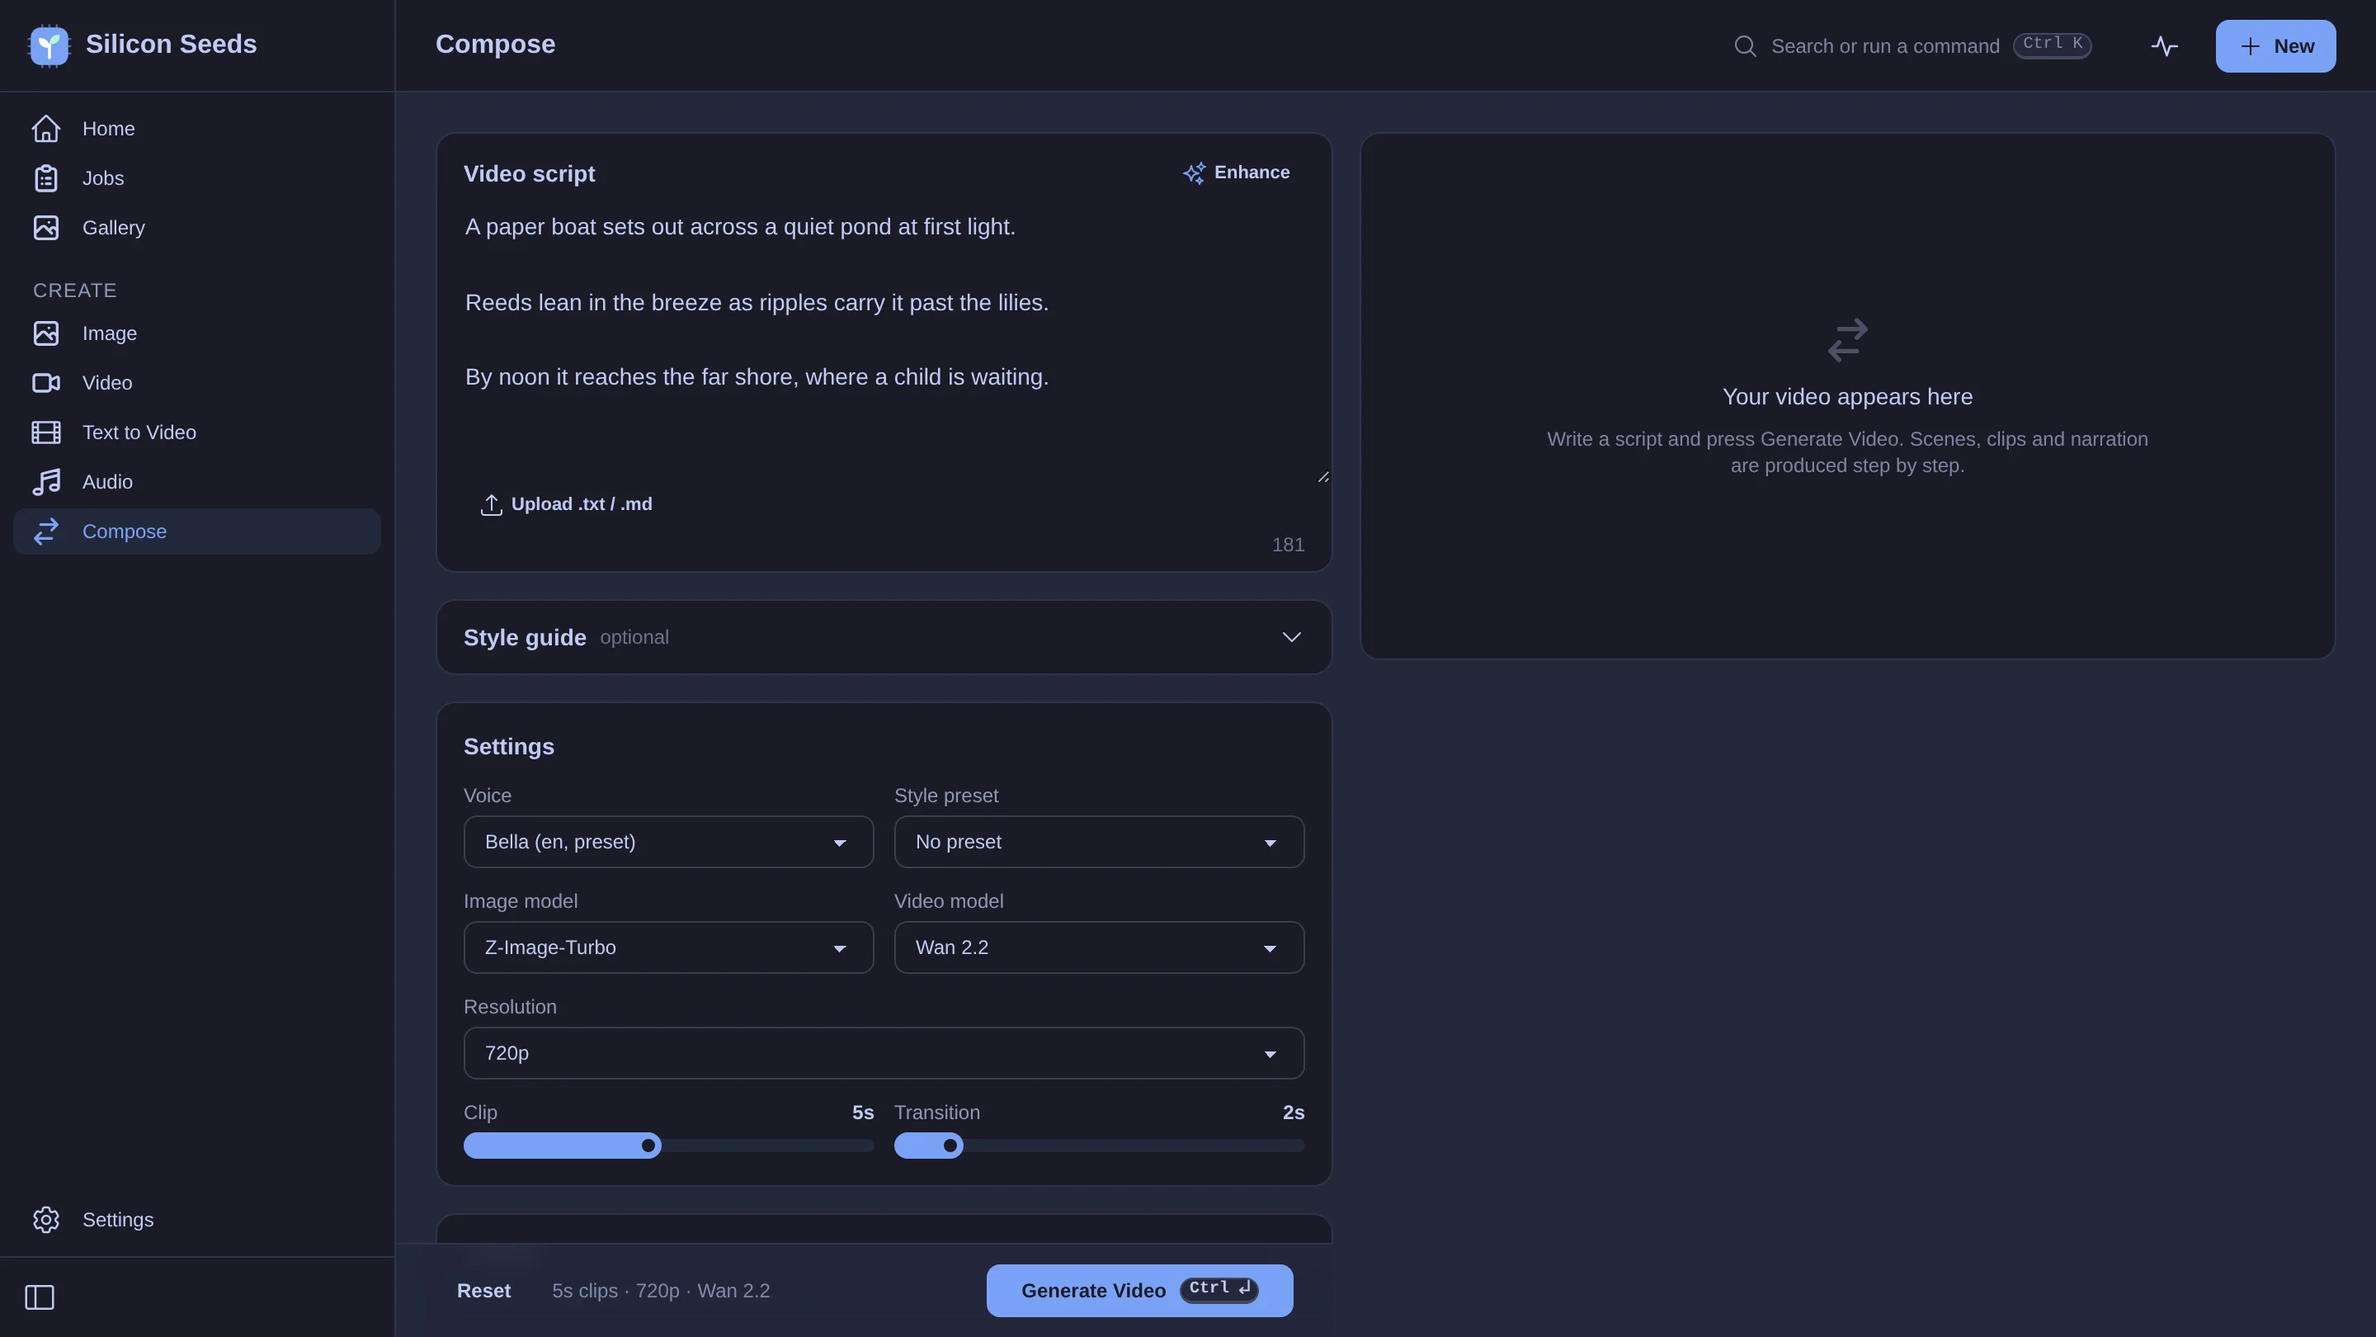
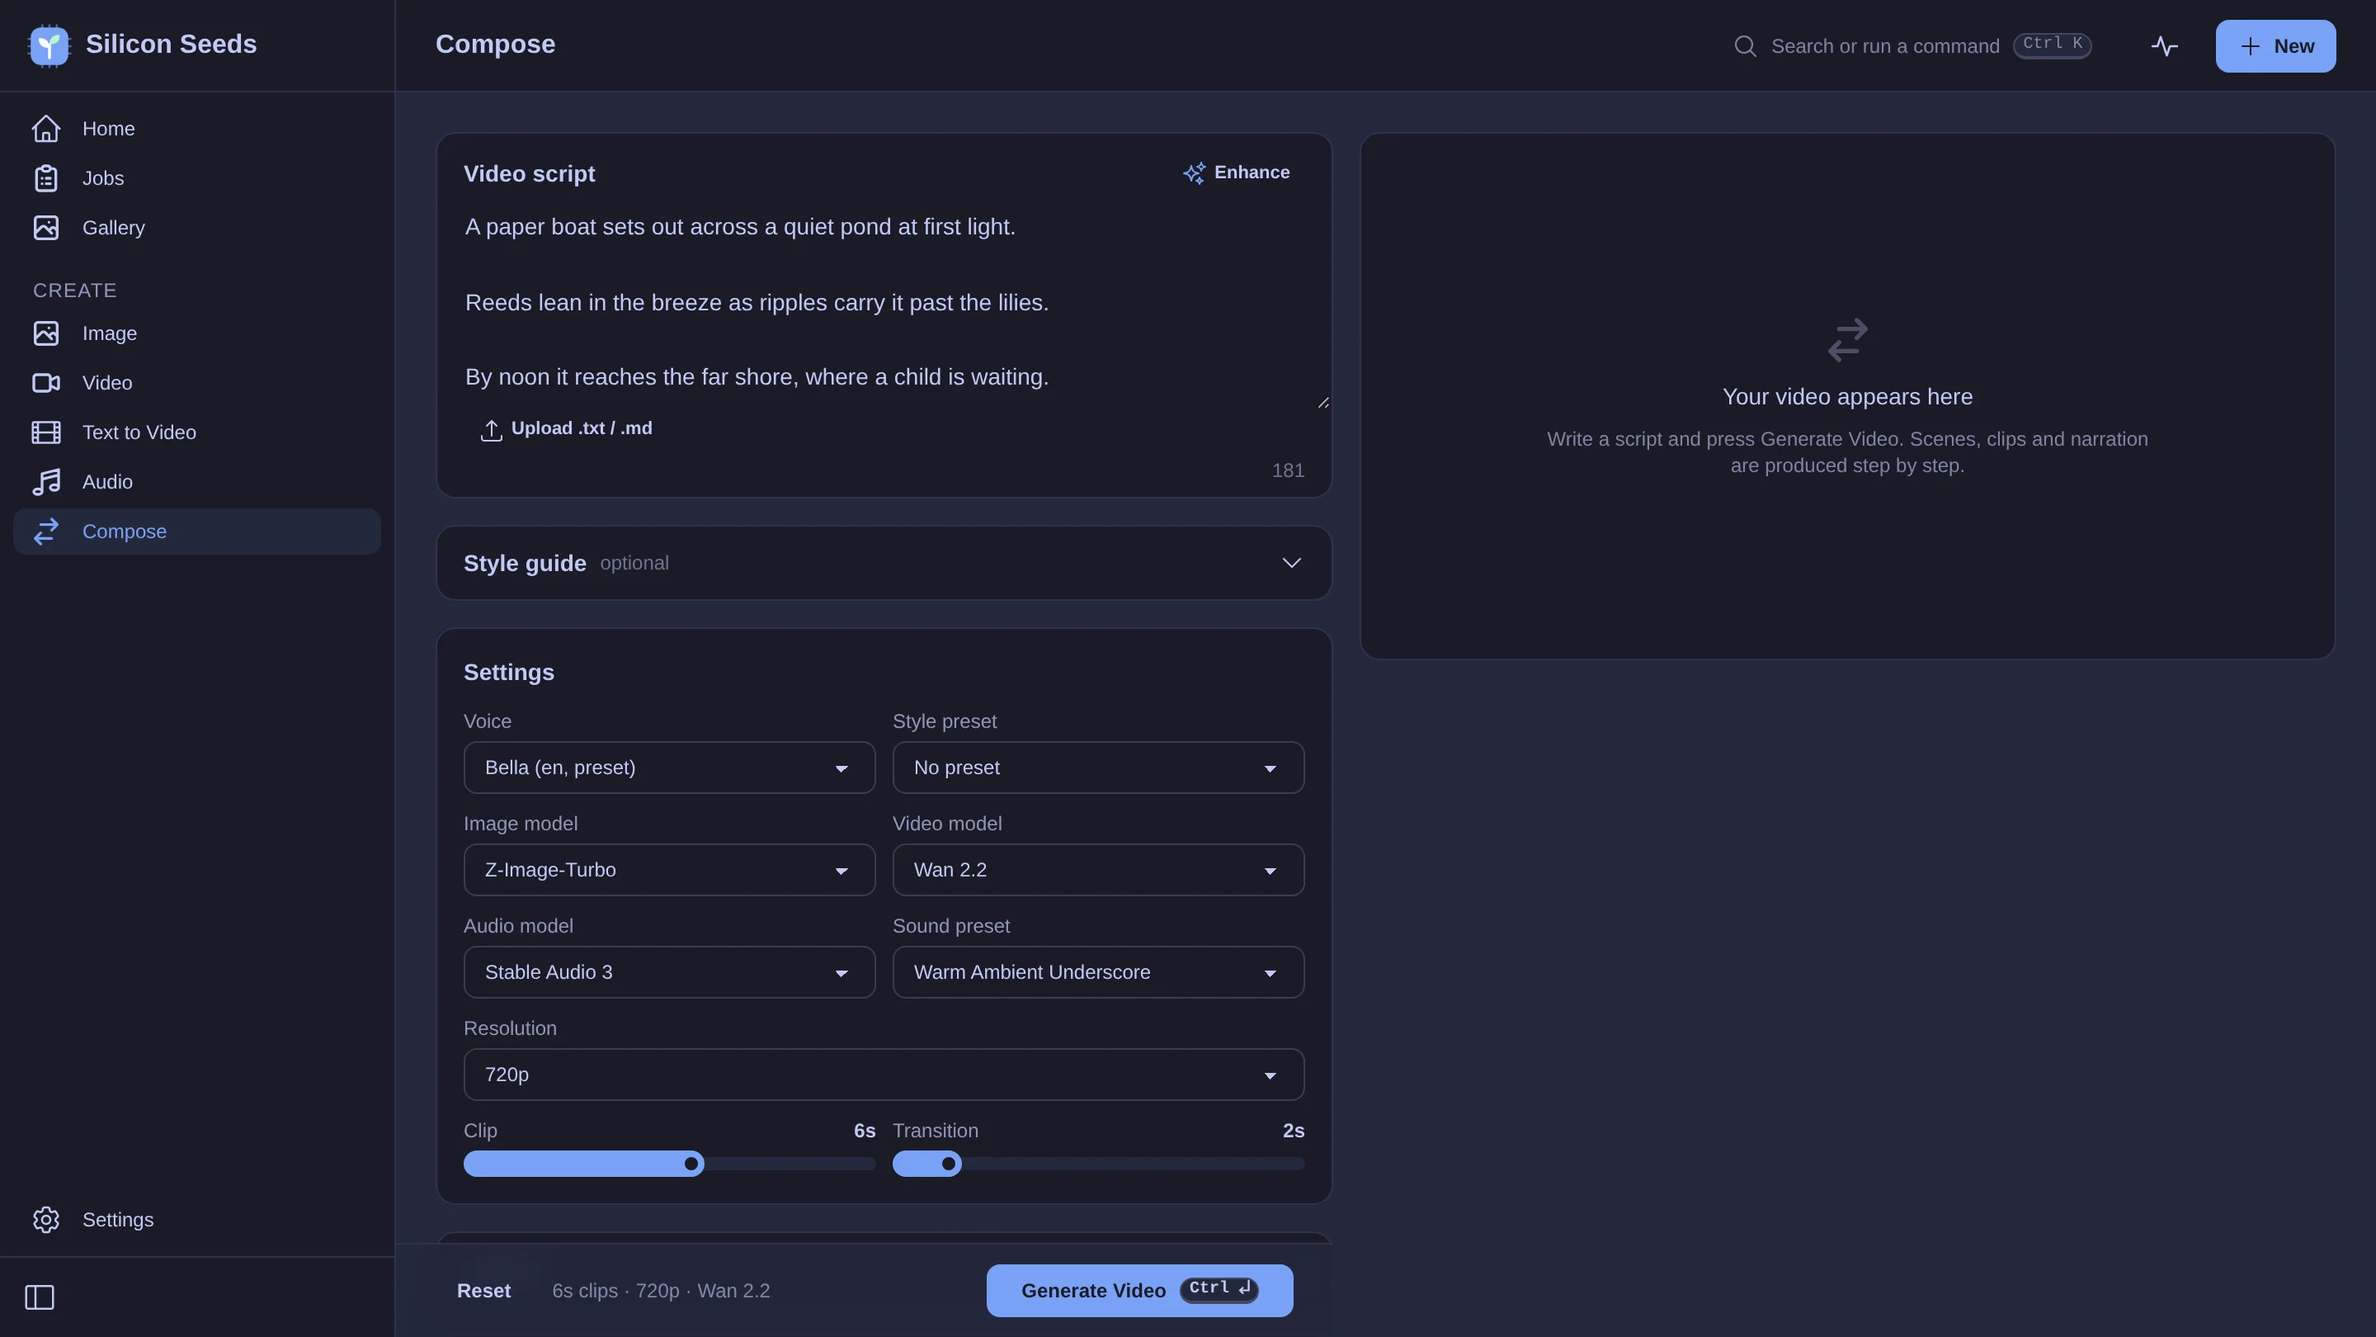
docs(readme): document multi-model audio studio, sound presets, and refresh screenshots (#88)

diff --git a/README.md b/README.md
@@ -16,7 +16,7 @@
   <img src="https://img.shields.io/badge/SolidJS-1.x-2C4F7C?style=flat-square&logo=solid&logoColor=white" alt="SolidJS" />
   <img src="https://img.shields.io/badge/DaisyUI-5.x-1AD1A5?style=flat-square" alt="DaisyUI" />
   <img src="https://img.shields.io/badge/Kysely%20%2B%20SQLite-003B57?style=flat-square&logo=sqlite&logoColor=white" alt="Kysely + SQLite" />
-  <img src="https://img.shields.io/badge/ComfyUI-Z--Image--Turbo%20%7C%20Wan%202.2%20%7C%20LTX%202.3-111111?style=flat-square" alt="ComfyUI" />
+  <img src="https://img.shields.io/badge/ComfyUI-Z--Image--Turbo%20%7C%20Wan%202.2%20%7C%20LTX%202.3%20%7C%20ACE%20Step%20%7C%20YuE2%20%7C%20MiniMax%20%7C%20SA3-111111?style=flat-square" alt="ComfyUI" />
   <img src="https://img.shields.io/badge/LM%20Studio-Qwen%203-6A5ACD?style=flat-square" alt="LM Studio" />
   <img src="https://img.shields.io/badge/version-1.0.0-blue?style=flat-square" alt="version 1.0.0" />
 </p>
@@ -35,7 +35,7 @@
 
 > **License:** GPL-3.0-or-later - see [LICENSE](LICENSE). Any derivative or service that includes this code must remain open under the same license.
 
-Local generative media studio. Orchestrates **LM Studio** (text), **ComfyUI** (image / video / audio), **SQLite + Kysely** (jobs), and a **SolidJS + DaisyUI** frontend to turn prompts and scripts into images, videos, audio tracks, and composed films. Queue is DB-backed, UI is SSE-driven, everything runs on your hardware.
+Local generative media studio. Orchestrates **LM Studio** (text), **ComfyUI** (image / video / multi-model audio), **SQLite + Kysely** (jobs & presets), and a **SolidJS + DaisyUI** frontend to turn prompts, scripts, and reference audio into images, videos, songs, melody covers, sound effects, and composed films. Queue is DB-backed, UI is SSE-driven, everything runs on your hardware.
 
 ---
 
@@ -56,18 +56,38 @@ One prompt box. Auto mode picks the format and settings from your description; r
 <tr>
 <td width="50%">
 
-**Compose - script to film**
+**Audio Studio - 4 models, sound presets, melody cover**
 
-Script + style guide + voice + LoRAs -> speech -> scenes -> images -> videos -> transitions -> concat. Shared studio layout with local drafts and an inline result panel.
+Switch between ACE Step 1.5 XL, YuE2 3B (ABC Score planning + SheetSage2 Melody Cover from Reference Audio), MiniMax Music 3 (3-part studio captions), and Stable Audio 3 (instrumentals, loops, SFX + Qwen Reprompting).
 
-<img src="readme/compose.webp" alt="Compose view - script, style guide, models, LoRAs, voice" width="100%" />
+<img src="readme/create-audio.webp" alt="Create Audio view - multi-model audio studio, YuE2 ABC planning, Melody Cover upload, sound presets" width="100%" />
+
+</td>
+<td width="50%">
+
+**Compose - script to film with selectable underscore**
+
+Script + style guide + voice + LoRAs + configurable Audio Model & Sound Preset -> speech -> scenes -> images -> videos -> transitions -> instrumental underscore -> concat.
+
+<img src="readme/compose.webp" alt="Compose view - script, style guide, image/video/audio models, sound presets, LoRAs, voice" width="100%" />
+
+</td>
+</tr>
+<tr>
+<td width="50%">
+
+**Sound & Style Presets - curated built-ins and custom CRUD**
+
+16 built-in sound & genre presets across all 4 audio models (duplicable into custom presets) alongside visual style presets in `/settings?tab=presets`.
+
+<img src="readme/sound-presets.webp" alt="Settings Sound Presets view - 16 built-in sound and genre presets with model filters and custom CRUD" width="100%" />
 
 </td>
 <td width="50%">
 
 **Settings - appearance, defaults, LoRAs, presets**
 
-Tabs for Appearance (themes), Defaults (prefill new jobs), LoRAs (synced from ComfyUI, reorder, toggle active), and Style presets.
+Tabs for Appearance (themes), Defaults (prefill new jobs including default studio and compose audio models), LoRAs (synced from ComfyUI, reorder, toggle active), and Style & Sound presets.
 
 <img src="readme/settings.webp" alt="Settings view - appearance themes, defaults, LoRAs, style presets" width="100%" />
 
@@ -85,9 +105,9 @@ Job list and detail view at `/jobs/<id>` with status filters, search, Status / M
 </td>
 <td width="50%">
 
-**Create - shared studio and Home Auto mode**
+**Create Studio - shared layout and AI prompt enhance**
 
-Home quick create with Auto mode plus dedicated Image, Video, Text-to-Video, Audio, and Compose pages with local drafts and live result panels.
+Shared studio layout across Image, Video, Text-to-Video, Audio, and Compose with AI prompt Enhance (and Undo chain), style presets, LoRA stacking, local drafts, and live result panels.
 
 <img src="readme/create-image.webp" alt="Create Image view - prompt, style, LoRAs" width="100%" />
 
@@ -117,7 +137,7 @@ git clone https://github.com/DennisLoska/silicon-seeds.git
 cd silicon-seeds
 bun install
 cp .env.example .env   # edit paths above
-bun run db:migrate      # creates silicon-seeds.sqlite + style presets/loras tables
+bun run db:migrate      # creates data/silicon-seeds.sqlite + style_presets, sound_presets, loras tables
 ```
 
 Validate setup:
@@ -155,6 +175,7 @@ Useful commands:
 bun run test           # tsc (server + client) + eslint (no services needed)
 bun run test:unit      # bun test src (no services needed)
 bun run lint
+bun run format:check   # prettier --check .
 bun run db:rollback    # last migration
 bun run db:chroma      # start local Chroma (path from CONTENT_LIBRARY_DIR, port from CHROMADB_PORT)
 ```
@@ -180,12 +201,15 @@ Variants: `bun run test:e2e:headed`, `bun run test:e2e:ui`.
 | Area | What you get |
 |------|--------------|
 | **Home & Auto mode** | Quick create bar with Auto, Image, Video, Text-to-Video, and Audio modes, active job cards, and recent creations. In Auto mode (`POST /api/intent`), the planner picks the format and rewrites the prompt while deterministic rules decide kind, counts, sizes, and durations. |
+| **Multi-Model Audio Studio** | Four ComfyUI audio backbones in `/create/audio` with dynamic model controls and graph-pruning workflow builders: **ACE Step 1.5 XL** (fast vocal/instrumental tracks with BPM, Key/Scale, Time Signature), **YuE2 3B** (symbolic ABC Score chord planning + **SheetSage2 Melody Cover** from uploaded Reference Audio or built-in sample), **MiniMax Music 3** (studio vocal flagship with 3-part `Global Metadata` / `Vocal Details` / `Arrangement` scaffold, `int8`/`fp16`, tiled VAE decode), and **Stable Audio 3** (8-step `medium` & 50-step `medium_base` instrumentals, loops, SFX, one-shots up to 180s with optional Qwen3.5-2B **Reprompting**). |
+| **Sound & Style Presets** | 16 curated built-in **Sound Presets** tailored to each audio model's prompt and lyric format, plus custom Sound Preset CRUD (`/api/sound-presets`) alongside **Style Presets** (`/api/style-presets`) in `/settings?tab=presets`. |
+| **Compose & Underscore** | End-to-end narrated film pipeline (`/compose`): script or `.txt`/`.md` + style guide + Voicebox TTS + Z-Image-Turbo + Wan 2.2 / LTX 2.3 + configurable **Underscore** audio model and sound preset. |
+| **Create Studio & AI Enhance** | Shared `StudioLayout` across Image (`/create/image`), Video (`/create/video`), Text-to-Video (`/create/text-to-video`), Audio (`/create/audio`), and Compose (`/compose`) with local per-route drafts, preset-aware AI prompt Enhance (with Undo chain) and Inspire, LoRA stacking, and a live `ResultPanel`. |
 | **Activity & Toasts** | Topbar Activity panel listing running, queued, and recent jobs with pause/resume/cancel actions, plus completion and failure toasts with direct links to `/jobs/<id>`. |
 | **Command Palette** | `Ctrl K` (or `Cmd K`) opens a keyboard-navigable palette for routes, settings sections, recent jobs, themes, and quick create for typed prompts. |
-| **Create Studio** | Shared `StudioLayout` across Image (`/create/image`), Video (`/create/video`), Text-to-Video (`/create/text-to-video`), Audio (`/create/audio`), and Compose (`/compose`) with local per-route drafts, prompt Enhance (with Undo chain) and Inspire, style presets, LoRA stacking, and a live `ResultPanel`. |
-| **Jobs** | Master-detail view (`/jobs` and `/jobs/:id?tab=status\|media\|events`) with status filter chips, search, step timeline, media grid with lightbox, "Reuse settings" prefill, per-event regenerate, and job pause, resume, retry, cancel, and delete actions. |
+| **Jobs** | Master-detail view (`/jobs` and `/jobs/:id?tab=status\|media\|events`) with status filter chips, search, step timeline, media grid with lightbox, "Reuse settings" prefill (preserving per-model audio defaults), per-event regenerate, and job pause, resume, retry, cancel, and delete actions. |
 | **Gallery** | Content library backed by `CONTENT_LIBRARY_DIR` with type filters (`all`, `image`, `video`, `audio`), cursor pagination, server-rendered thumbnails (`/thumbs/*`), and a lightbox with job links. |
-| **Settings** | Tabbed interface (`/settings?tab=appearance\|defaults\|loras\|presets`) covering Appearance (Daylight, Tokyo Night, Dracula, and OpenCode themes), Defaults (resolution, models, FPS, durations, preset), LoRAs (sync from ComfyUI, toggle active, reorder, delete), and Style presets. |
+| **Settings** | Tabbed interface (`/settings?tab=appearance\|defaults\|loras\|presets`) covering Appearance (System, Daylight, Tokyo Night, OpenCode, and Dracula themes), Defaults (resolution, image/video/audio/compose models, FPS, durations, presets), LoRAs (sync from ComfyUI, toggle active, reorder, delete), and Visual Style + Sound & Genre presets. |
 | **Shell & Favicon** | Collapsible sidebar, responsive mobile drawer, `New` create menu, and SVG favicon (`src/client/favicon.svg`). |
 | **Local-first** | No cloud or external API keys. Bring your own ComfyUI and LM Studio; optional Voicebox and ChromaDB degrade gracefully. |
 
@@ -196,10 +220,10 @@ Variants: `bun run test:e2e:headed`, `bun run test:e2e:ui`.
 ```mermaid
 flowchart LR
   UI[SolidJS + DaisyUI<br/>Home / Create / Jobs / Gallery / Settings] -- SSE / REST --> API[Hono API<br/>:3000]
-  API -- Kysely --> DB[(SQLite<br/>jobs + events + style_presets)]
+  API -- Kysely --> DB[(SQLite<br/>jobs + events + style_presets + sound_presets)]
   API -- queue --> Q[QueueManager<br/>prio 300/200/100<br/>single-slot]
-  Q --> LLM[LM Studio<br/>scene expansion + intent]
-  Q --> COMFY[ComfyUI<br/>Z-Image-Turbo<br/>Wan 2.2 / LTX 2.3<br/>Stable Audio]
+  Q --> LLM[LM Studio<br/>scene expansion + intent + enhance]
+  Q --> COMFY[ComfyUI<br/>Z-Image-Turbo<br/>Wan 2.2 / LTX 2.3<br/>ACE Step 1.5 / YuE2 / MiniMax Music 3 / Stable Audio 3]
   Q --> TTS[Voicebox<br/>TTS / cloning]
   COMFY --> OUT[(OUTPUT_DIR)]
   TTS --> OUT
@@ -208,6 +232,8 @@ flowchart LR
 ```
 
 **Request flow:** `Create -> POST /api/jobs/*` -> DB `jobs` + `events` rows -> `QueueManager.pump()` picks next event by priority -> driver (LLM / ComfyUI / TTS) executes -> writes artifact to `OUTPUT_DIR` -> copies to `CONTENT_LIBRARY_DIR` -> SSE pushes update -> UI re-renders. ComfyUI progress arrives via WebSocket (`COMFYUI_BASE_WS`).
+
+**Multi-model audio & graph pruning:** `src/shared/audio-models.ts` defines the isomorphic registry for `ace-step-1.5`, `yue2`, `minimax-music-3`, and `stable-audio-3` (capabilities, duration bounds, lyric formatting, and default settings). `src/comfyui/audio-workflows.ts` constructs fresh, pruned ComfyUI API graphs per job so inactive auxiliary subgraphs (such as `SheetSage2AudioToABC`, `YuE2GenerateABC`, or `Qwen3.5-2B` reprompting) are omitted rather than loaded into VRAM. Uploaded Reference Audio for YuE2 Melody Covers is validated and staged into ComfyUI's `INPUT_DIR` via `src/audio/reference-audio.ts`.
 
 **Client data layer:** A single SSE connection (`/jobs/stream/all`) with server heartbeats feeds the client job store (`src/client/stores/jobs.ts`). The store holds the job list, tracks per-job signatures and stream epochs, runs a staleness watchdog with exponential-backoff reconnect and a 10-second polling fallback while jobs are active, and drives the Activity panel and completion/failure toasts. Per-job views (`JobDetail`, `ResultPanel`) subscribe to the store via `onJobUpdate` and refetch only when their job's signature or the stream epoch changes.
 
@@ -230,8 +256,8 @@ flowchart LR
 
 | Service | Default URL | Required | What it does |
 |---------|-------------|----------|--------------|
-| [ComfyUI](https://github.com/comfyanonymous/ComfyUI) | `http://127.0.0.1:8188` | yes | Image (Z-Image-Turbo), video (Wan 2.2 / LTX 2.3), audio generation |
-| [LM Studio](https://lmstudio.ai/) | `http://127.0.0.1:1234` | yes | LLM text, scene prompts, style expansion, intent planning, job naming |
+| [ComfyUI](https://github.com/comfyanonymous/ComfyUI) | `http://127.0.0.1:8188` | yes | Image (Z-Image-Turbo), video (Wan 2.2 / LTX 2.3), audio (ACE Step 1.5 XL, YuE2 3B + SheetSage2, MiniMax Music 3, Stable Audio 3) |
+| [LM Studio](https://lmstudio.ai/) | `http://127.0.0.1:1234` | yes | LLM text, scene prompts, style expansion, prompt enhancement, intent planning, job naming |
 | [Voicebox](https://github.com/JarodMica/voicebox) | `http://127.0.0.1:17493` | for Compose | TTS for script -> speech |
 | ChromaDB | `http://127.0.0.1:8000` | no | Vector search for gallery |
 
@@ -286,9 +312,9 @@ LOG_LEVEL=info
 ## First run
 
 1. Open `http://localhost:3000` -> `Home` (or press `Ctrl K` to open the command palette).
-2. Go to `Settings` -> `Appearance` to pick a theme, `LoRAs` -> `Sync from ComfyUI` to import LoRAs, and `Defaults` / `Style presets` to configure defaults.
+2. Go to `Settings` -> `Appearance` to pick a theme, `LoRAs` -> `Sync from ComfyUI` to import LoRAs, and `Defaults` / `Style presets` (Visual style presets & Sound & genre presets) to configure defaults.
 3. **Quick create:** Type a prompt on `Home` in `Auto` mode (or pick `Image`, `Video`, `Text to Video`, `Audio`) and click `Generate`.
-4. **Create pages & Compose:** Open `/create/image`, `/create/video`, `/create/text-to-video`, `/create/audio`, or `/compose` for full controls, local drafts, and the inline result panel.
+4. **Create pages & Compose:** Open `/create/image`, `/create/video`, `/create/text-to-video`, `/create/audio` (select between ACE Step 1.5 XL, YuE2 3B with ABC Score & Melody Cover, MiniMax Music 3, or Stable Audio 3), or `/compose` for full controls, local drafts, and the inline result panel.
 5. **Jobs & Gallery:** Track active work in the topbar Activity panel or `/jobs/<id>`, and browse outputs in `/gallery`.
 
 API quick test:
@@ -313,8 +339,8 @@ curl -X POST http://localhost:3000/api/jobs/images \
 | DB | **SQLite** + **Kysely** | Single file, zero ops, type-safe queries, migrations in `migrations/` |
 | Image | **ComfyUI + Z-Image-Turbo** | 9-step turbo, CLIP `qwen_3_4b`, LoRA stacking |
 | Video | **Wan 2.2 14B** / **LTX 2.3** | i2v, t2v, and transition models, selectable per job |
-| Audio | **Stable Audio 3** + **ACE Step 1.5** | Instrumental / song, Voicebox for TTS |
-| LLM | **LM Studio** (Qwen 3) | Local OpenAI-compatible API, scene expansion and intent planning |
+| Audio | **ACE Step 1.5 XL** / **YuE2 3B** / **MiniMax Music 3** / **Stable Audio 3** | Full songs, ABC score planning, SheetSage2 melody cover, instrumentals & SFX; Voicebox for TTS |
+| LLM | **LM Studio** (Qwen 3) | Local OpenAI-compatible API, scene expansion, prompt enhancement, and intent planning |
 | Search | **ChromaDB** | Embeddings (`text-embedding-qwen3-embedding-8b`) for gallery RAG |
 
 ---
